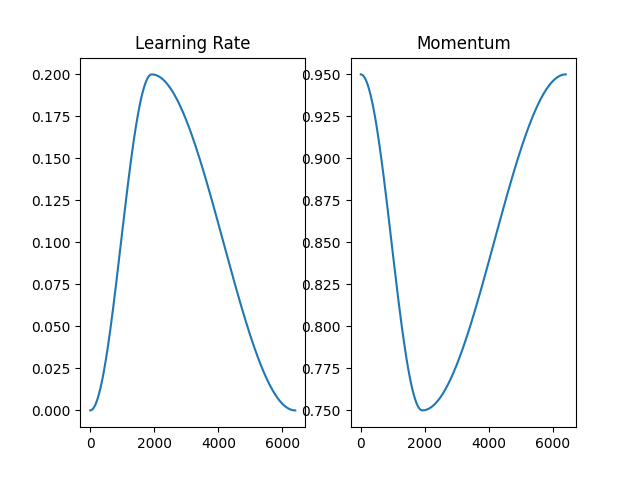
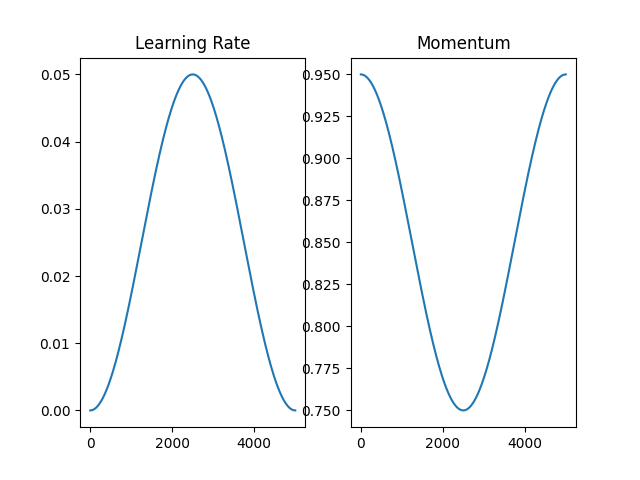
Tuned hyperparameters.

diff --git a/model.py b/model.py
@@ -9,30 +9,29 @@ from tensorflow.keras.optimizers.schedules import ExponentialDecay, CosineDecayR
 from keras_lr_finder import LRFinder
 
 def build_model(input_shape, output_shape, config=None):
-    #reg = l2(0.001)
     inputs = Input(input_shape)
     t = inputs
 
-    t = BatchNormalization()(t)
+    t = BatchNormalization(momentum=0.95)(t)
     for n in range(config.conv_layers):
         t = Conv2D(int(2 ** (np.log2(config.nof_initial_filters) + n)), # double the number of filters in each subsequent layer
                    config.conv_kernel_size,
                    kernel_initializer="he_uniform",
                    padding="same",
                    activation="relu")(t)
-        t = BatchNormalization()(t)
+        t = BatchNormalization(momentum=0.95)(t)
         t = Conv2D(int(2 ** (np.log2(config.nof_initial_filters) + n)), # double the number of filters in each subsequent layer
                    config.conv_kernel_size,
                    kernel_initializer="he_uniform",
                    padding="same",
                    activation="relu")(t)
-        t = BatchNormalization()(t)
+        t = BatchNormalization(momentum=0.95)(t)
         t = MaxPooling2D((2,2), padding="same")(t)
 
     t = Flatten()(t)
-    t = BatchNormalization()(t)
+    t = BatchNormalization(momentum=0.95)(t)
     t = Dense(config.fc_layer_size, kernel_initializer="he_uniform", activation="relu")(t)
-    t = BatchNormalization()(t)
+    t = BatchNormalization(momentum=0.95)(t)
     outputs = Dense(output_shape,
                     kernel_initializer="he_uniform",
                     activation="relu", name="predictions")(t)

diff --git a/sweep_configs.py b/sweep_configs.py
@@ -13,21 +13,17 @@ run_config = dict(
     parameters=dict(loss =                  dict(value="mse"),
                     # learning rate
                     max_lr =                dict(value=0.05),
-                    init_lr =               dict(value=1e-6),
-                    lr_decay =              dict(value=0.8),
+                    init_lr =               dict(value=0.005),
                     decay_length =          dict(value=4),
 
                     # lr schedule
-                    mom_min =               dict(value=0.75),
+                    mom_min =               dict(value=0.80),
                     mom_max =               dict(value=0.95),
-                    phase0perc =            dict(value=0.5),
-
-                    # regularization
-                    fc_dropout =            dict(value=0.0),
+                    phase0perc =            dict(value=0.3),
 
                     # epochs
-                    epochs =                dict(value=8),
-                    batch_size =            dict(value=256),
+                    epochs =                dict(value=10),
+                    batch_size =            dict(value=512),
 
                     # conv2D parameters
                     conv_layers =           dict(value=4),

diff --git a/train.py b/train.py
@@ -31,8 +31,9 @@ def train_with_dataset(conf=None):
         # build model ------------------------------------------------------------
         model = build_model(conf.input_shape, conf.output_shape, conf)
         vs = 0.2
-        steps = np.ceil(len(x_train) * (1-vs) / conf.batch_size) * conf.epochs
-        spe = len(x_train) * (1-vs) / conf.batch_size # calculate steps per epoch
+        #steps = np.ceil(len(x_train) * (1-vs) / conf.batch_size) * conf.epochs
+        #spe = len(x_train) * (1-vs) / conf.batch_size # calculate steps per epoch
+        steps = conf.spe * conf.epochs
 
         # learning rate schedule ------------------------------------------------------------
         #lr = Triangular2CyclicalLearningRate(conf.init_lr, conf.max_lr, conf.decay_length * spe)
@@ -84,7 +85,7 @@ def train_with_generator(conf=None):
         model.fit(traingen, steps_per_epoch=conf.spe, epochs=conf.epochs,
                   validation_data=traingen, validation_steps=int(conf.spe*0.1),
                   callbacks=[WandbCallback(), mc, es, lr_schedule])
-        lr_schedule.plot()
+        #lr_schedule.plot()
 
 if __name__ == "__main__":
     sweep_id = wandb.sweep(run_config, project='ring-finder')

diff --git a/one_cycle.py b/one_cycle.py
@@ -19,7 +19,7 @@ class CosineAnnealer:
 class OneCycleSchedule(tf.keras.callbacks.Callback):
     def __init__(self, lr_min, lr_max, steps, mom_min=.85, mom_max=.95, phase0perc=0.3):
         super(OneCycleSchedule, self).__init__()
-        lr_final = lr_min / 1 # TODO: change denominator again
+        lr_final = lr_min / 1000
         phase0steps = int(steps * phase0perc)
         phase1steps = int(steps - phase0steps)
 
